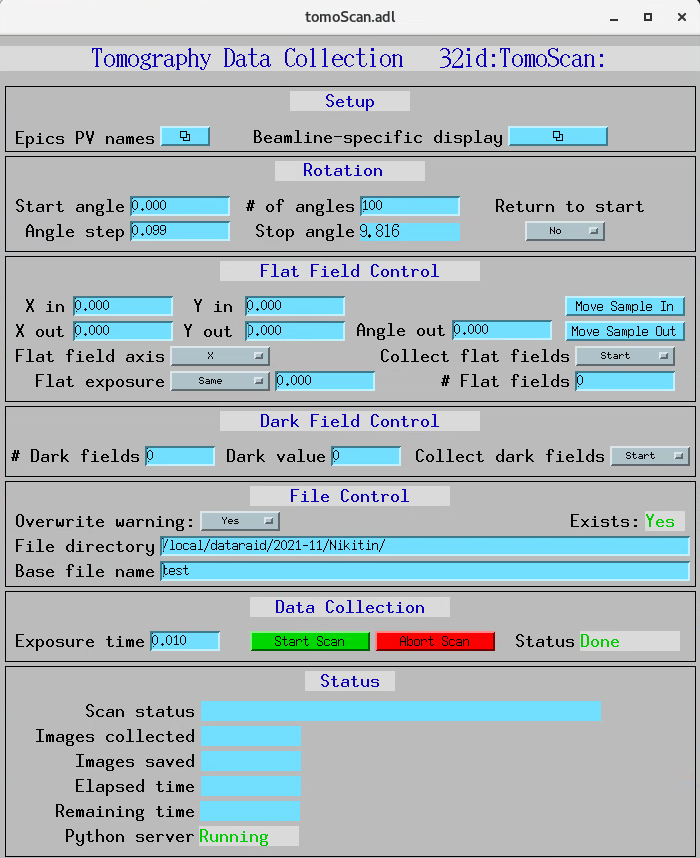
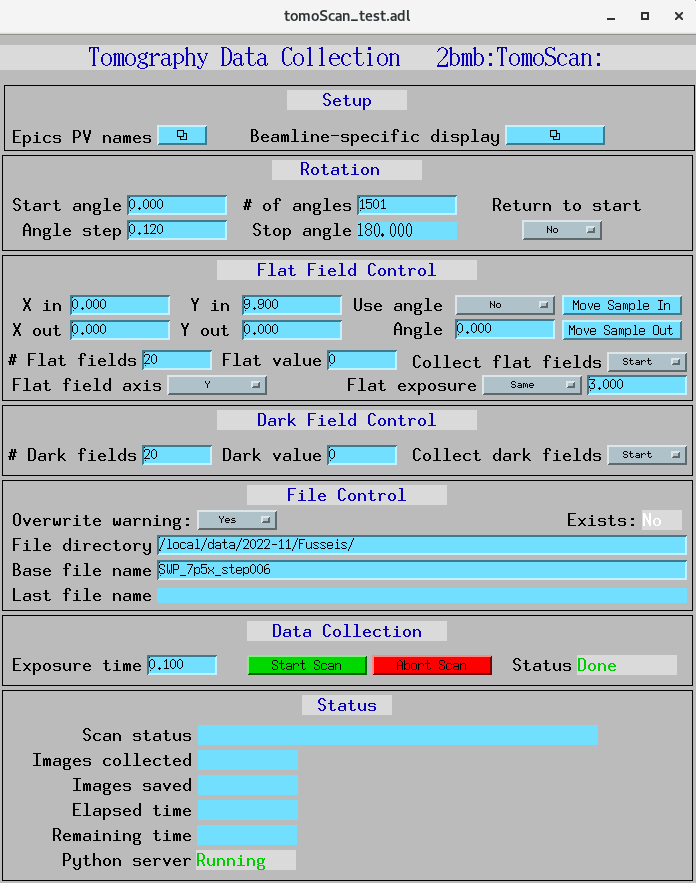
address #161: adding the last saved file name on the main tomoScan medm screen

diff --git a/tomoscan/tomoscan.py b/tomoscan/tomoscan.py
@@ -673,6 +673,8 @@ class TomoScan():
         self.epics_pvs['ScanStatus'].put('Scan complete')
         self.epics_pvs['StartScan'].put(0)
         self.scan_is_running = False
+        full_file_name = self.epics_pvs['FPFullFileName'].get(as_string=True)
+        self.epics_pvs['FullFileName'].put(full_file_name)
 
     def fly_scan(self):
         """Performs the operations for a tomography fly scan, i.e. with continuous rotation.

diff --git a/docs/source/tomoScanApp.rst b/docs/source/tomoScanApp.rst
@@ -263,6 +263,9 @@ File path and name control
     - bi
     - Selects whether to open a dialog box to warn the user if the file to be written
       would overwrite an existing file.  The user can then choose 'Yes' or 'No'.
+  * - $(P)$(R)FullFileName
+    - waveform
+    - The last file name used to save data.
 
 Location for data in HDF5 file
 ~~~~~~~~~~~~~~~~~~~~~~~~~~~~~~
